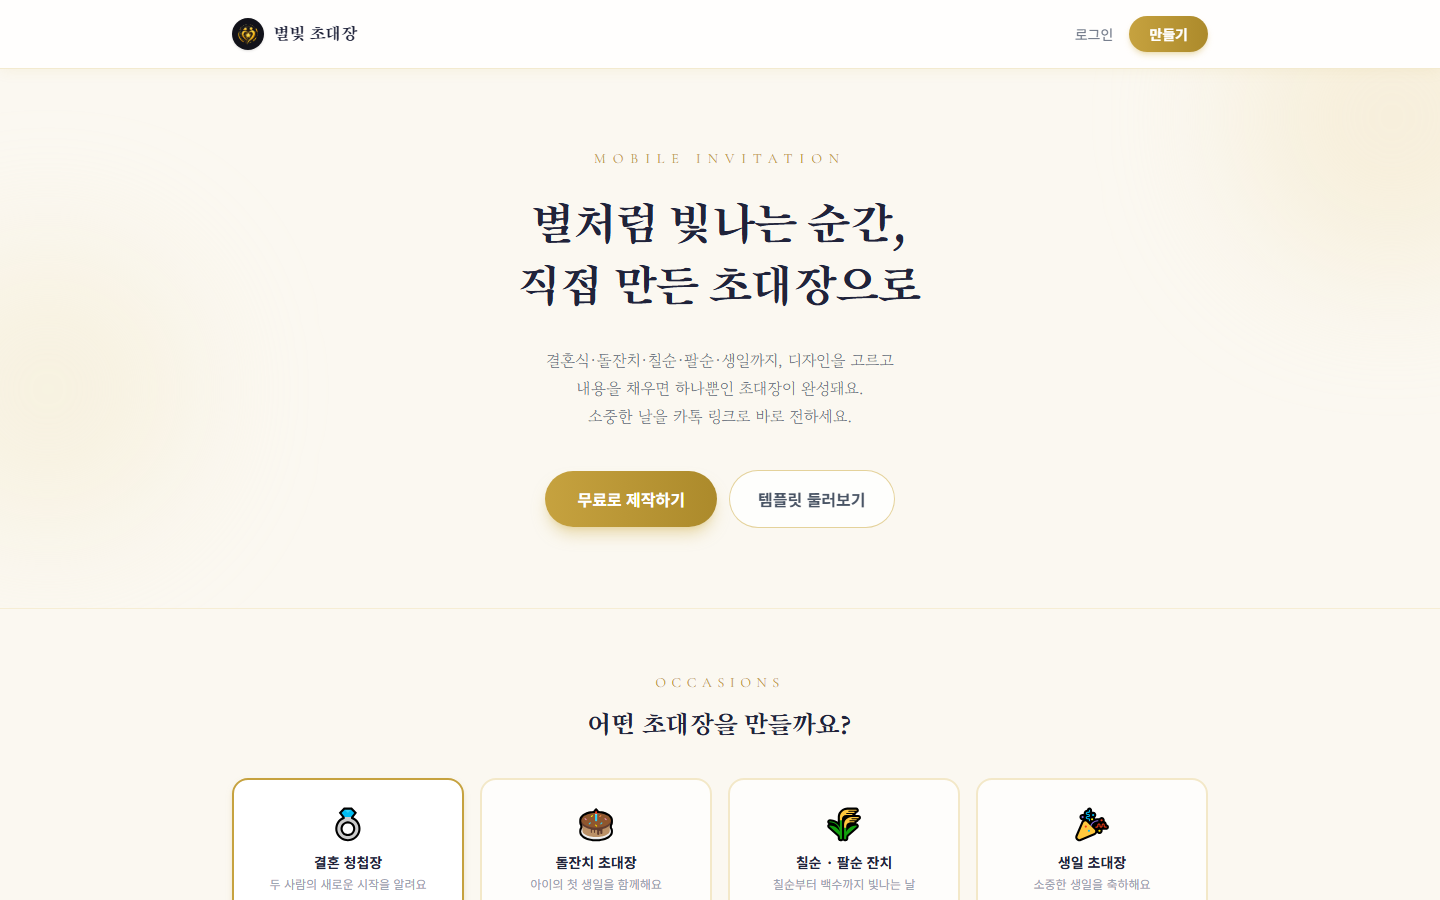
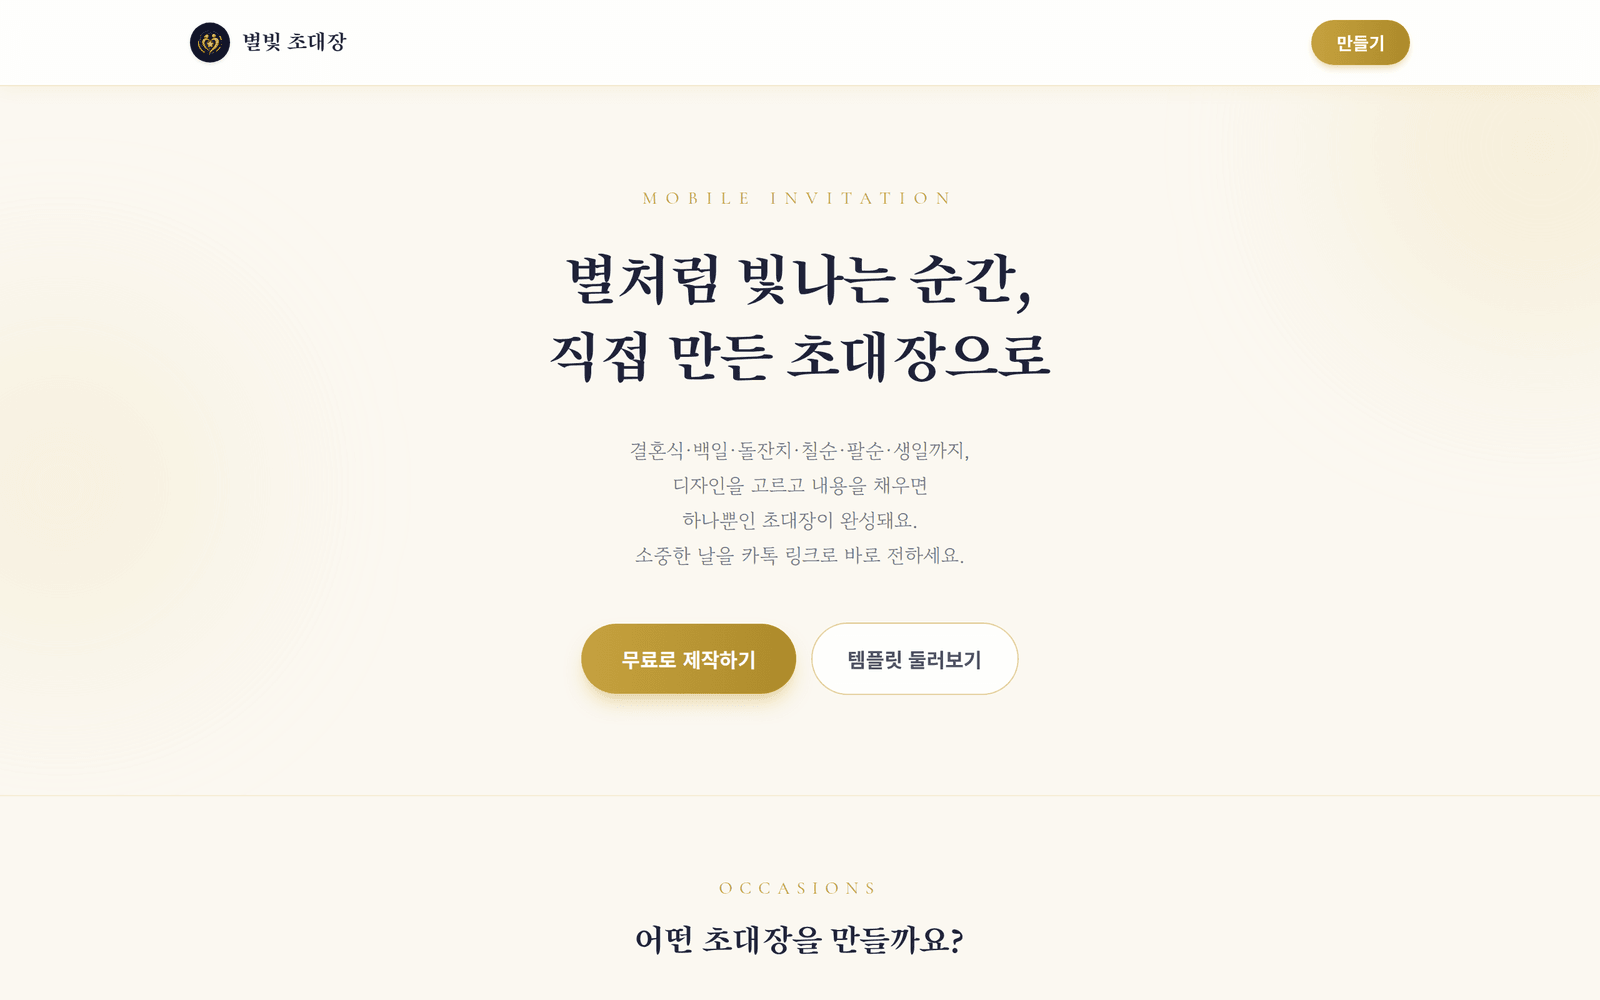
리드미 최신화 — 기능 정리와 화면 이미지 갱신 (#77)
- 종류 이름을 "백일 · 돌잔치"로 맞추고, 지금 있는 기능(인트로 6종, 대표
  사진 모션 4종, 구분선 5종, 글꼴 9종, 갤러리 19장·드래그 정렬, 임시저장,
  주인공 소개, 회원 탈퇴)을 반영
- 데이터 수명 표에 지난 날짜 차단·탈퇴·미사용 사진 정리를 더하고,
  운영 화면(/pej)과 약관·방침 문서 안내를 추가
- 환경변수 표와 프로젝트 구조를 현재 파일 구성에 맞게 갱신
- 화면 이미지 새로 찍음: landing / landing-full 교체, 만들기 화면(editor)과
  종류별 미리보기(categories) 추가

Claude-Session: https://claude.ai/code/session_01B8aKNdTtax9E3Xux7nLPHE

diff --git a/README.md b/README.md
@@ -4,8 +4,8 @@
 
 **별처럼 빛나는 순간, 직접 만든 초대장으로 — 모바일 초대장 메이커**
 
-결혼식 · 돌잔치 · 칠순 잔치 · 생일까지,
-템플릿을 고르고 내용을 입력하면 나만의 모바일 초대장이 완성됩니다.
+결혼식 · 백일 · 돌잔치 · 칠순 · 팔순 · 생일까지,
+디자인을 고르고 내용을 채우면 하나뿐인 모바일 초대장이 완성됩니다.
 완성된 초대장은 고유 링크로 발급되어 카카오톡으로 바로 공유할 수 있어요.
 
 <sub>결혼·육아·가족을 위한 웹서비스 **별마마파파**의 첫 번째 서비스</sub>
@@ -25,7 +25,7 @@
 
 <br/>
 
-<img src="docs/img/landing.png" alt="모바일 초대장 메이커 메인 화면" width="800"/>
+<img src="docs/img/landing.png" alt="모바일 초대장 메이커 메인 화면" width="820"/>
 
 </div>
 
@@ -33,17 +33,21 @@
 
 ## ✨ 주요 기능
 
-- 🗂 **4가지 초대장 종류** — 결혼 청첩장 · 돌잔치 · 칠순/팔순 잔치 · 생일
+- 🗂 **4가지 초대장 종류** — 결혼 청첩장 · 백일/돌잔치 · 칠순/팔순 잔치 · 생일
 - 🎨 **종류별 전용 템플릿 24종** — 종류마다 6개씩, 디자인이 서로 완전히 다름
-- 🖊 **실시간 미리보기** — 입력하는 즉시 오른쪽 초대장에 그대로 반영
-- 🎬 **대표 사진 모션 4종** — 줌 인 · 줌 아웃 · 아웃포커스 · 흑백→컬러
-- 🔤 **9종 한글 글꼴** — 명조 · 고딕 · 붓글씨까지 제목/본문 따로 선택
-- 📷 **사진 업로드** — 대표 사진 + 갤러리(최대 20장), 자동 압축 후 클라우드 저장
+- 🖊 **실시간 미리보기** — 입력하는 즉시 옆 초대장에 그대로 반영 (모바일은 우상단 미니 미리보기)
+- 🎬 **인트로 연출 6종** — 초대장을 열 때 지나가는 첫 화면 (마지막 하나는 종류 전용)
+- 🖼 **대표 사진 모션 4종** — 없음 · 줌 인 · 줌 아웃 · 아웃포커스
+- 🔤 **한글 글꼴 9종 · 글자 크기 4단계 · 구분선 5종** — 제목/본문 글꼴을 따로 선택
+- 📷 **사진 업로드** — 대표 사진 + 갤러리(최대 19장), 자동 압축 후 클라우드 저장
+- ✋ **갤러리 드래그 정렬** — 손가락으로 꾹 눌러 순서 변경 (모바일 우선)
+- 💾 **임시저장** — 쓰다 만 내용을 브라우저에 담아 두고 다음에 이어서 작성
 - 📍 **네이버지도 · 카카오맵** — 장소 주소를 원하는 지도 앱으로 바로 열기 + 주소 복사
-- 💳 **마음 전하실 곳** — 계좌 안내 (결혼은 신랑/신부측 구분)
+- 💳 **마음 전하실 곳** — 계좌 안내 (결혼은 신랑/신부측 구분, 생일은 숨김)
+- 🙋 **주인공 소개** — 신랑·신부, 아기, 잔치 주인공을 이름 아래 몇 줄로 소개
 - ⏱ **디데이 카운트다운** — 남은 일/시/분/초 실시간 표시
 - 🔗 **공유 링크 발급** — `/v/abc12345` 짧은 링크 + 카톡 공유 카드(OG 미리보기)
-- 🔐 **카카오 · 네이버 로그인** — 만든 초대장을 언제든 수정·삭제
+- 🔐 **카카오 · 네이버 로그인** — 만든 초대장을 언제든 수정·삭제, 회원 탈퇴까지
 - 🧹 **자동 정리** — 행사 다음 날 링크와 사진까지 완전 삭제
 - 📱 **모바일 최적화** — 하객은 앱 설치 없이 링크만 열면 끝
 
@@ -53,12 +57,16 @@
 
 메인에서 종류를 고르면 그에 맞는 전용 템플릿과 입력 폼이 나타납니다.
 
+<div align="center">
+<img src="docs/img/categories.png" alt="결혼 · 돌잔치 · 칠순 · 생일 초대장 미리보기" width="900"/>
+</div>
+
 | | 종류 | 입력 형태 | 특징 |
 |---|---|---|---|
-| 💍 | **결혼 청첩장** | 신랑 · 신부 2인 | 혼주 4명, 신랑/신부측 계좌 구분 |
-| 🎂 | **돌잔치 초대장** | 아기 1인 | 사진과 이름만 담백하게 |
+| 💍 | **결혼 청첩장** | 신랑 · 신부 2인 | 혼주 4명, 신랑/신부측 계좌 구분, 각각의 소개글 |
+| 🎂 | **백일 · 돌잔치** | 아기 1인 | 백일/돌 선택 → 문구 자동 변경, 아들·딸 표기 |
 | 🌾 | **칠순 · 팔순 잔치** | 주인공 1인 | 칠순/팔순/구순/백수 선택 → 문구 자동 변경 |
-| 🎉 | **생일 초대장** | 주인공 1인 | 파티 무드 중심 |
+| 🎉 | **생일 초대장** | 주인공 1인 | 파티 무드 중심, 계좌 섹션 없음 |
 
 <br/>
 
@@ -79,7 +87,7 @@
 </details>
 
 <details>
-<summary><b>🎂 돌잔치</b></summary>
+<summary><b>🎂 백일 · 돌잔치</b></summary>
 
 | | 템플릿 | 분위기 |
 |---|---|---|
@@ -122,6 +130,49 @@
 
 <br/>
 
+## 🖊 만들기 화면
+
+<div align="center">
+<img src="docs/img/editor.png" alt="초대장 편집 화면 — 왼쪽 입력 폼, 오른쪽 실시간 미리보기" width="820"/>
+</div>
+
+왼쪽에서 입력하면 오른쪽 미리보기가 **그 자리에서** 바뀝니다.
+폼을 내리면 미리보기도 해당 섹션으로 따라 움직여, 지금 고치는 부분이 어디에 어떻게 보이는지 바로 확인할 수 있어요.
+
+<details>
+<summary><b>꾸미기 옵션</b></summary>
+
+| 옵션 | 선택지 |
+|---|---|
+| **인트로** | 사용 안 함 · 글씨 번짐 · 라인 리빌 · 사진 페이드 · 별빛 + 종류 전용 1종<br/>(결혼=꽃잎 · 아기=풍선 · 칠순=먹번짐 · 생일=컨페티) |
+| **대표 사진 모션** | 없음 · 줌 인 · 줌 아웃 · 아웃포커스 |
+| **구분선** | 마름모 · 가는 선 · 점 세 개 · 꽃 · 없음 |
+| **글꼴** | 명조 4종(본명조·나눔명조·고운바탕·송명) · 고딕 3종(본고딕·고운돋움·나눔고딕) · 붓글씨 · 템플릿 기본 |
+| **글자 크기** | 작게 · 보통 · 크게 · 아주 크게 |
+
+</details>
+
+<details>
+<summary><b>사진 다루기</b></summary>
+
+- 대표 사진 1장 + 갤러리 최대 **19장** (페이지가 무거워지지 않도록 둔 한도)
+- 업로드 전에 브라우저에서 자동 압축 — 원본을 그대로 올리지 않습니다
+- 갤러리는 **꾹 눌러 드래그**해서 순서를 바꿀 수 있고, 화면 끝으로 끌면 목록이 따라 스크롤됩니다
+- 남은 자리보다 많이 고르면, 그중 어떤 사진을 담을지 고르는 창이 뜹니다
+
+</details>
+
+<details>
+<summary><b>임시저장</b></summary>
+
+적는 동안 자동으로 브라우저에 담기고, 제작하기 위의 **임시저장** 버튼으로 직접 담아 둘 수도 있습니다.
+다음에 같은 종류로 들어오면 "작성하시던 내용이 있어요" 안내가 뜨고, 이어서 쓸 수 있어요.
+서버로 보내지 않고 7일이 지나면 저절로 사라집니다.
+
+</details>
+
+<br/>
+
 ## 📸 미리보기
 
 <div align="center">
@@ -141,14 +192,33 @@
 | 로그인 | 카카오 · 네이버 (Supabase Auth) |
 | 세션 | 브라우저를 닫거나 **24시간**이 지나면 자동 로그아웃 |
 | 제작 한도 | **종류마다 1개씩, 계정당 최대 4개** |
+| 행사 날짜 | **오늘 이후**만 선택 가능 (입력·저장·서버에서 각각 검사) |
 | 게시 기간 | 행사 **당일까지** 공개 (직접 고르지 않고 행사 날짜로 자동 결정) |
-| 자동 삭제 | 행사 **다음 날 0시(KST)** 에 DB 행과 업로드 사진까지 완전 삭제 |
+| 자동 삭제 | 행사 **다음 날 0시(KST)** 부터 비공개, **00:30** 에 DB 행과 사진까지 완전 삭제 |
+| 회원 탈퇴 | 마이페이지에서 직접 — 초대장·사진·계정을 한 번에 삭제 |
 
 - 만료된 초대장은 종류 한도에서 빠지므로, 삭제를 기다리지 않고 같은 종류를 새로 만들 수 있어요.
 - 초대장을 직접 삭제하거나 사진을 교체하면, 쓰이지 않게 된 사진도 Storage에서 함께 정리됩니다.
+- 만들다 그만둬서 어느 초대장에도 딸리지 않은 사진은 하루가 지난 뒤 함께 정리됩니다.
 - 정리 작업은 매일 00:30(KST)에 도는 Vercel Cron(`/api/cron/purge`)이 수행합니다.
+- 초대장 페이지는 검색엔진에 올라가지 않습니다(`noindex`). 링크를 아는 사람만 볼 수 있어요.
+- 문서: [이용약관](https://starinvite.vercel.app/terms) · [개인정보처리방침](https://starinvite.vercel.app/privacy)
 
 > ⚠ 삭제는 **복구할 수 없습니다.** 사용자에게도 에디터와 마이페이지에서 안내하고 있어요.
+
+<br/>
+
+## 🛡 운영 화면 (`/pej`)
+
+`ADMIN_EMAILS` 에 적힌 계정으로 로그인했을 때만 열리는 운영 현황 화면입니다.
+그 외에는 주소를 알아도 **없는 페이지(404)** 로 보입니다.
+
+- 가입한 계정 수 · 만든 초대장 수 · 게시 종료 건수 + 종류별 통계
+- 계정 목록(10개씩 페이징 · 이름 검색)과 그 계정이 만든 초대장 바로 열기
+- 계정 삭제 — 초대장·사진까지 함께 지우고, `KAKAO_ADMIN_KEY` 가 있으면 카카오 연결도 끊습니다
+- 어느 초대장에도 딸리지 않은 사진 정리 버튼
+
+> 초대장 테이블은 RLS로 잠겨 있어, 목록을 통째로 가져가는 건 서버(서비스 키)에서만 가능합니다.
 
 <br/>
 
@@ -157,8 +227,8 @@
 - **프레임워크** — Next.js 16 (App Router · Turbopack), React 19, TypeScript
 - **스타일** — Tailwind CSS v4, next/font (한글 웹폰트), CSS 애니메이션
 - **인증** — Supabase Auth (카카오 OAuth) + 네이버 커스텀 OAuth 플로우
-- **백엔드 / 저장소** — Supabase (PostgreSQL + Storage)
-- **정기 작업** — Vercel Cron → 만료 초대장 정리
+- **백엔드 / 저장소** — Supabase (PostgreSQL + Storage, RLS)
+- **정기 작업** — Vercel Cron → 만료 초대장·미사용 사진 정리
 - **배포** — Vercel
 - **이미지** — 클라이언트 사이드 압축(Canvas) 후 Storage 업로드, 데이터엔 URL만 저장
 
@@ -189,10 +259,12 @@ npm run dev
 1. [supabase.com](https://supabase.com) 에서 프로젝트 생성
 2. `supabase/schema.sql` 내용을 **SQL Editor** 에 붙여넣고 실행
    → `invitations` 테이블 + 공개 Storage 버킷 `photos` + 정책이 한 번에 생성됩니다
-3. `.env.local.example` → `.env.local` 로 복사하고 값 채우기
+3. 이미 예전 스키마로 만들어 둔 프로젝트라면 `supabase/2026-08-tighten-rls.sql` 도 실행
+   → 누구나 목록을 읽거나 쓸 수 있던 정책을 걷어냅니다
+4. `.env.local.example` → `.env.local` 로 복사하고 값 채우기
    - `NEXT_PUBLIC_SUPABASE_URL`, `NEXT_PUBLIC_SUPABASE_ANON_KEY` (Settings → API)
-   - `SUPABASE_SERVICE_ROLE_KEY` — 네이버 로그인과 사진 삭제에 필요 (RLS 우회)
-4. `npm run dev` 재시작
+   - `SUPABASE_SERVICE_ROLE_KEY` — 저장·삭제·네이버 로그인에 필요 (RLS 우회, 서버 전용)
+5. `npm run dev` 재시작
 
 </details>
 
@@ -201,10 +273,12 @@ npm run dev
 
 **카카오** — Supabase 대시보드 → Authentication → Providers → Kakao
 [developers.kakao.com](https://developers.kakao.com) 에서 앱 생성 후 REST API 키/Secret 입력
+동의항목에서 **닉네임 · 이메일**을 받도록 설정해 두면 마이페이지·운영 화면에서 계정을 알아볼 수 있습니다.
 
 **네이버** — Supabase가 기본 제공하지 않아 커스텀 플로우로 처리합니다
 [developers.naver.com](https://developers.naver.com) 에서 앱 등록 후 `NAVER_CLIENT_ID`, `NAVER_CLIENT_SECRET` 설정
 Callback URL: `{사이트주소}/api/auth/naver/callback`
+검수 신청 시 이용약관·개인정보처리방침 주소로 `/terms`, `/privacy` 를 제출하면 됩니다.
 
 **카카오톡 공유** — 앱의 JavaScript 키를 `NEXT_PUBLIC_KAKAO_JS_KEY` 에 설정
 [앱] → [제품 링크 관리] → [웹 도메인] 에 사이트 주소 등록 필요
@@ -212,10 +286,27 @@ Callback URL: `{사이트주소}/api/auth/naver/callback`
 </details>
 
 <details>
-<summary><b>3. Vercel 배포</b></summary>
+<summary><b>3. 환경변수</b></summary>
+
+| 이름 | 필수 | 용도 |
+|---|:---:|---|
+| `NEXT_PUBLIC_SUPABASE_URL` | ✔ | Supabase 프로젝트 주소 |
+| `NEXT_PUBLIC_SUPABASE_ANON_KEY` | ✔ | 브라우저에서 쓰는 공개 키 |
+| `SUPABASE_SERVICE_ROLE_KEY` | ✔ | 서버 전용 — 저장·삭제·네이버 로그인 |
+| `NAVER_CLIENT_ID` / `NAVER_CLIENT_SECRET` | | 네이버 로그인 |
+| `NEXT_PUBLIC_KAKAO_JS_KEY` | | 카카오톡 공유 버튼 |
+| `CRON_SECRET` | ✔ | 만료 초대장 정리 작업 인증 토큰 |
+| `ADMIN_EMAILS` | | `/pej` 에 들어올 수 있는 이메일(쉼표로 여러 개) |
+| `KAKAO_ADMIN_KEY` | | 탈퇴 시 카카오 연결까지 끊기 |
+| `NEXT_PUBLIC_SITE_URL` | | 공유 카드·robots·sitemap 의 기준 주소 |
+
+</details>
+
+<details>
+<summary><b>4. Vercel 배포</b></summary>
 
 1. GitHub 레포 import
-2. **Settings → Environment Variables** 에 `.env.local` 의 값들을 등록
+2. **Settings → Environment Variables** 에 위 값들을 등록
 3. **`CRON_SECRET` 을 반드시 추가** — 만료 초대장 정리 작업의 인증 토큰
    ```bash
    node -e "console.log(require('crypto').randomBytes(32).toString('base64url'))"
@@ -223,6 +314,7 @@ Callback URL: `{사이트주소}/api/auth/naver/callback`
    미설정 시 `/api/cron/purge` 는 503으로 거부되어 정리가 실행되지 않습니다
 4. **Deploy** → `https://your-app.vercel.app` 발급
 5. **Cron Jobs** 탭에서 `/api/cron/purge` 가 매일 등록됐는지 확인
+   (Hobby 요금제는 지정한 시각 언저리에 도는 유연한 스케줄입니다)
 6. 이후 `git push` 하면 **자동 재배포**
 
 > 환경변수는 저장만으로 적용되지 않고 **재배포해야** 반영됩니다.
@@ -239,34 +331,50 @@ src/
   app/
     page.tsx                     랜딩 (종류 선택 + 템플릿 미리보기)
     editor/page.tsx              편집 화면 (로그인 필수 · 종류당 1개 검사)
-    my/page.tsx                  마이페이지 (내 초대장 관리)
+    my/page.tsx                  마이페이지 (내 초대장 관리 · 회원 탈퇴)
     login/page.tsx               카카오 · 네이버 로그인
     v/[slug]/page.tsx            발행된 초대장 (공유 링크)
+    pej/page.tsx                 운영 현황 (ADMIN_EMAILS 만 접근)
+    terms/page.tsx               이용약관
+    privacy/page.tsx             개인정보처리방침
+    not-found.tsx · error.tsx    404 · 오류 화면
+    robots.ts · sitemap.ts       검색엔진 안내
     api/
       invitations/route.ts       초대장 저장 (POST)
       invitations/[slug]/route.ts  수정 · 삭제 (PATCH · DELETE)
       upload/route.ts            사진 업로드 (POST)
+      account/route.ts           회원 탈퇴 · 계정 삭제 (DELETE)
+      pej/images/route.ts        안 쓰는 사진 정리
       cron/purge/route.ts        만료 초대장 완전 삭제 (Vercel Cron)
       auth/naver/*               네이버 커스텀 OAuth
     auth/callback/route.ts       카카오 OAuth 콜백
   components/
-    EditorClient.tsx             폼 + 실시간 미리보기
+    EditorClient.tsx             폼 + 실시간 미리보기 (사진 정렬 · 임시저장)
     InvitationView.tsx           초대장 렌더링 24종 (편집/발행 공용)
-    MyPageClient.tsx             내 초대장 목록 · 삭제
+    InvitationIntro.tsx          인트로 연출 6종
+    MyPageClient.tsx             내 초대장 목록 · 삭제 · 회원 탈퇴
     GalleryAlbum.tsx             갤러리 + 확대 보기
     MapSection.tsx               지도 + 네이버지도 · 카카오맵 열기
     Countdown.tsx                디데이 카운트다운
     KakaoShareButton.tsx         카카오톡 공유 카드
+    LegalLayout.tsx              약관 · 방침 문서 레이아웃
+    PejDeleteAccount.tsx         운영 화면의 계정 삭제
+    PejCleanImages.tsx           운영 화면의 사진 정리
   lib/
     types.ts                     데이터 모델 · 정규화 · 만료일 계산
     categories.ts                종류별 문구 · 필드 구성
     templates.ts                 템플릿 24종 · 글꼴 메타데이터
     store.ts                     초대장 저장소 (Supabase ↔ 로컬 폴백)
     storage.ts                   사진 저장소 · 삭제 (Supabase Storage ↔ 로컬)
+    account.ts                   계정 삭제 (초대장 · 사진 · 카카오 연결 끊기)
+    admin.ts                     운영자 판별 · 계정 목록
+    draft.ts                     임시저장 (브라우저 보관)
+    legal.ts                     서비스 정보 · 문의처 · 시행일
     session.ts                   세션 수명 정책
     image.ts                     클라이언트 이미지 압축
 supabase/
   schema.sql                     테이블 · 버킷 · RLS 정책
+  2026-08-tighten-rls.sql        기존 프로젝트용 정책 정리
 vercel.json                      Cron 스케줄 (매일 00:30 KST)
 ```
 
